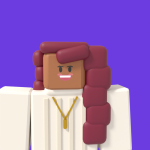
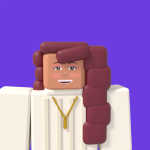
Sage: detailed likeness face (eyes, lashes, eyeshadow, brows, nose, lips), lighter skin tone
Adds face_detailed.py, a high-resolution drawn face with all 12 expressions,
and re-renders branding with the updated Sage.

Claude-Session: https://claude.ai/code/session_01J3XbAiCneoB6BvaKg4KW12

Changed region(s): [[0.2667, 0.3467, 0.56, 0.6133]]

diff --git a/pipeline/blender/face_detailed.py b/pipeline/blender/face_detailed.py
@@ -1,0 +1,235 @@
+"""High-detail drawn face for a main character (used when cast.json has
+"face_style": {"detailed": {...}}). Draws soft anti-aliased features at 512 px:
+almond eyes with iris + catchlight, eyeshadow, winged lashes, tapered brows,
+nose, blush and glossy lips, for all 12 expressions with closed / open mouth.
+
+Colours can be overridden in cast.json -> face_style.detailed:
+  iris, lashes, brows, eyeshadow, lips, blush, teeth, mouth
+"""
+import math
+
+import numpy as np
+
+N = 512
+ZOOM = 1.35  # features are designed on a 512 canvas, then enlarged to fill the head
+_YY, _XX = np.mgrid[0:N, 0:N].astype(np.float32)
+_XX = (_XX - N / 2) / ZOOM + N / 2
+_YY = (_YY - N / 2) / ZOOM + N / 2 + 10
+
+
+def hex3(h):
+    h = h.lstrip("#")
+    c = [int(h[i:i + 2], 16) / 255.0 for i in (0, 2, 4)]
+    return np.array([x / 12.92 if x <= 0.04045 else ((x + 0.055) / 1.055) ** 2.4 for x in c], np.float32)
+
+
+# ---------------------------------------------------------------- soft masks
+def _aa(d, w=1.4):
+    return np.clip(0.5 - d / w, 0.0, 1.0)
+
+
+def ellipse(cx, cy, rx, ry, soft=1.4):
+    d = (np.sqrt(((_XX - cx) / rx) ** 2 + ((_YY - cy) / ry) ** 2) - 1.0) * min(rx, ry)
+    return _aa(d, soft)
+
+
+def ring(cx, cy, rx, ry, w):
+    d = np.abs(np.sqrt(((_XX - cx) / rx) ** 2 + ((_YY - cy) / ry) ** 2) - 1.0) * min(rx, ry) - w / 2
+    return _aa(d)
+
+
+def capsule(x0, y0, x1, y1, w0, w1=None):
+    w1 = w0 if w1 is None else w1
+    dx, dy = x1 - x0, y1 - y0
+    t = np.clip(((_XX - x0) * dx + (_YY - y0) * dy) / (dx * dx + dy * dy + 1e-6), 0, 1)
+    d = np.sqrt((_XX - (x0 + t * dx)) ** 2 + (_YY - (y0 + t * dy)) ** 2) - (w0 + (w1 - w0) * t) / 2
+    return _aa(d)
+
+
+def polyline(pts, w0, w1):
+    m = np.zeros((N, N), np.float32)
+    n = len(pts) - 1
+    for i in range(n):
+        a = w0 + (w1 - w0) * i / n
+        b = w0 + (w1 - w0) * (i + 1) / n
+        m = np.maximum(m, capsule(*pts[i], *pts[i + 1], a, b))
+    return m
+
+
+def bezier(p0, p1, p2, steps=14):
+    return [((1 - t) ** 2 * p0[0] + 2 * (1 - t) * t * p1[0] + t * t * p2[0],
+             (1 - t) ** 2 * p0[1] + 2 * (1 - t) * t * p1[1] + t * t * p2[1]) for t in np.linspace(0, 1, steps)]
+
+
+def heart(cx, cy, s):
+    x = (_XX - cx) / s
+    y = -(_YY - cy) / s + 0.25
+    v = (x * x + y * y - 1) ** 3 - x * x * y ** 3
+    return np.clip(-v * 6 + 0.5, 0, 1)
+
+
+class Canvas:
+    def __init__(self, skin):
+        self.px = np.empty((N, N, 3), np.float32)
+        self.px[:] = skin
+
+    def paint(self, mask, color, alpha=1.0):
+        a = (mask * alpha)[..., None]
+        self.px = self.px * (1 - a) + np.asarray(color, np.float32) * a
+
+
+# --------------------------------------------------------------- expression
+#            eye_open brow_tilt brow_raise pupil  look_y  eye_mode   mouth
+EXPR = {
+    "neutral": (1.00, 0, 0, 1.00, 0, "normal", "soft"),
+    "happy":   (0.80, -4, 6, 1.00, 0, "smile", "teeth"),
+    "smug":    (0.55, 6, 0, 1.00, 2, "normal", "smirk"),
+    "angry":   (0.72, 22, -6, 0.90, 0, "normal", "frown"),
+    "sad":     (0.80, -20, 4, 1.00, 6, "normal", "frown"),
+    "shocked": (1.35, -4, 24, 0.62, 0, "normal", "o"),
+    "scared":  (1.25, -18, 16, 0.62, 2, "normal", "wobble"),
+    "sus":     (0.38, 10, -4, 1.00, 0, "normal", "flat"),
+    "cry":     (1.00, -22, 6, 1.00, 0, "closed", "frown"),
+    "dead":    (1.00, 0, 0, 1.00, 0, "x", "flat"),
+    "evil":    (0.62, 26, -4, 0.85, 0, "evil", "grin"),
+    "love":    (1.05, -6, 12, 1.00, 0, "heart", "teeth"),
+}
+
+EYE_L, EYE_R, EYE_Y = 176, 336, 226
+
+
+def draw_eye(cv, c, cx, side, open_, pupil, look_y, mode, skin):
+    cy = EYE_Y
+    rx, ry = 46, 25 * open_
+    # rose eyeshadow, soft
+    cv.paint(ellipse(cx + side * 6, cy - 16, 62, 26 + 14 * open_, soft=26), c["eyeshadow"], 0.55)
+    if mode == "x":
+        for s in (-1, 1):
+            cv.paint(capsule(cx - 26, cy - 26 * s, cx + 26, cy + 26 * s, 12), c["lashes"])
+        return
+    if mode == "closed":  # crying: closed lids curving down, lashes, tears
+        pts = bezier((cx - 44, cy + 4), (cx, cy - 22), (cx + 44, cy + 4))
+        cv.paint(polyline(pts, 9, 9), c["lashes"])
+        for k in (0.2, 0.5, 0.8):
+            px_, py_ = pts[int(k * (len(pts) - 1))]
+            cv.paint(capsule(px_, py_, px_ + side * 8, py_ - 12, 4, 2), c["lashes"])
+        tx = cx + side * 6
+        cv.paint(capsule(tx, cy + 6, tx + side * 4, 420, 18, 26), (0.35, 0.65, 1.0), 0.85)
+        return
+    white = ellipse(cx, cy, rx, ry)
+    cv.paint(white, (0.97, 0.96, 0.95))
+    # iris clipped to the eye white
+    ic = (cx, cy + look_y)
+    iris_col = c["iris"] if mode != "evil" else hex3("#c4102c")
+    if mode == "heart":
+        cv.paint(heart(ic[0], ic[1] - 2, 20) * white, hex3("#ff3d6e"))
+    else:
+        r = 21 * pupil
+        cv.paint(ellipse(ic[0], ic[1], r, r) * white, iris_col)
+        cv.paint(ring(ic[0], ic[1], r, r, 3) * white, iris_col * 0.45)
+        cv.paint(ellipse(ic[0], ic[1], r * 0.45, r * 0.45) * white, (0.02, 0.01, 0.01))
+        cv.paint(ellipse(ic[0] + 6, ic[1] - 7, 5.5, 5.5) * white, (1, 1, 1))
+        cv.paint(ellipse(ic[0] - 6, ic[1] + 7, 2.5, 2.5) * white, (1, 1, 1), 0.8)
+    if mode == "smile":  # cheeks push the lower lid up
+        cv.paint(ellipse(cx, cy + ry + 12, 56, 18, soft=3), skin)
+    # upper lid line + wing
+    top = bezier((cx - rx, cy + 2), (cx, cy - ry * 2.0), (cx + rx, cy + 2))
+    if side < 0:
+        top = top[::-1]
+    cv.paint(polyline(top, 4, 9), c["lashes"])  # thick toward the outer corner
+    ox, oy = cx + side * rx, cy + 2
+    cv.paint(capsule(ox, oy, ox + side * 18, oy - 14, 8, 2), c["lashes"])
+    # lashes fanning from the outer half of the lid
+    for k, ln in ((0.55, 12), (0.7, 15), (0.85, 17)):
+        px_, py_ = top[int(k * (len(top) - 1))]
+        cv.paint(capsule(px_, py_, px_ + side * ln * 0.7, py_ - ln, 4, 1.5), c["lashes"])
+    # soft lower lid
+    low = bezier((cx - rx * 0.8, cy + ry * 0.6), (cx, cy + ry * 1.25), (cx + rx * 0.9, cy + ry * 0.55))
+    cv.paint(polyline(low, 2, 2), c["lashes"], 0.35)
+
+
+def draw_brow(cv, c, cx, side, tilt, raise_):
+    by = EYE_Y - 62 - raise_
+    inner = (cx - side * 40, by + 6 + tilt * 0.8)
+    peak = (cx + side * 12, by - 12 + tilt * 0.1)
+    outer = (cx + side * 56, by + 8 - tilt * 0.3)
+    pts = bezier(inner, peak, outer, 16)
+    cv.paint(polyline(pts, 19, 7), c["brows"])
+
+
+def draw_nose(cv, skin):
+    shade = skin * 0.8
+    cv.paint(ellipse(256, 304, 30, 18, soft=14), shade, 0.6)
+    for x in (240, 272):
+        cv.paint(ellipse(x, 310, 8, 4.5, soft=3), skin * 0.55, 0.9)
+    cv.paint(ellipse(256, 282, 6, 12, soft=8), (1, 1, 1), 0.25)
+
+
+def draw_mouth(cv, c, kind, open_):
+    cx, cy = 256, 372
+    lips, dark, teeth = c["lips"], c["mouth"], c["teeth"]
+    if kind in ("teeth", "grin"):
+        w = 82 if kind == "teeth" else 94
+        h = (40 if open_ else 30) + (6 if kind == "grin" else 0)
+        top = cy - 8
+        inside = ellipse(cx, top, w, h + 6) * (_YY >= top)
+        cv.paint(ellipse(cx, top - 2, w + 10, h + 16) * (_YY >= top - 10), lips)     # lower lip
+        cv.paint(ellipse(cx, top + 2, w + 8, 12), lips)                               # upper lip
+        cv.paint(inside, dark)
+        cv.paint(inside * (_YY <= top + h * 0.48), teeth)                              # top teeth
+        if kind == "grin" or open_:
+            cv.paint(inside * (_YY >= top + h * 0.85), teeth * 0.95)                  # bottom teeth
+        cv.paint(ellipse(cx + 18, top + h + 9, 22, 4, soft=4), (1, 1, 1), 0.55)       # gloss
+        return
+    if kind == "o":
+        r = 30 if open_ else 24
+        cv.paint(ellipse(cx, cy + 4, r + 10, r + 16), lips)
+        cv.paint(ellipse(cx, cy + 4, r, r + 6), dark)
+        cv.paint(ellipse(cx + 10, cy + r + 14, 10, 3, soft=3), (1, 1, 1), 0.5)
+        return
+    if open_:  # generic talking mouth for the other shapes
+        cv.paint(ellipse(cx, cy + 2, 46, 30), lips)
+        cv.paint(ellipse(cx, cy + 2, 36, 20), dark)
+        cv.paint(ellipse(cx, cy - 8, 32, 8) * ellipse(cx, cy + 2, 36, 20), teeth)
+        return
+    # closed shapes: two full lips with a parting line
+    if kind == "soft":
+        line = bezier((cx - 50, cy - 4), (cx, cy + 12), (cx + 50, cy - 4))
+    elif kind == "frown":
+        line = bezier((cx - 44, cy + 10), (cx, cy - 8), (cx + 44, cy + 10))
+    elif kind == "smirk":
+        line = bezier((cx - 40, cy + 6), (cx + 10, cy + 8), (cx + 50, cy - 12))
+    elif kind == "wobble":
+        line = [(cx - 48 + i * 12, cy + (6 if i % 2 else -4)) for i in range(9)]
+    else:  # flat
+        line = [(cx - 38, cy), (cx + 38, cy)]
+    lip = np.zeros((N, N), np.float32)
+    for (x, y) in line:
+        lip = np.maximum(lip, ellipse(x, y, 16, 15))
+    cv.paint(lip, lips)
+    cv.paint(polyline(line, 5, 5), lips * 0.55)
+    mx = line[len(line) // 2][0]
+    my = line[len(line) // 2][1]
+    cv.paint(ellipse(mx + 14, my + 11, 14, 3, soft=3), (1, 1, 1), 0.5)
+
+
+def draw_face_detailed(expr, mouth_open, skin_lin, opts):
+    c = {k: hex3(v) for k, v in {
+        "iris": "#4a2716", "lashes": "#170c0a", "brows": "#4a2a1c", "eyeshadow": "#e0727f",
+        "lips": "#e3a1a6", "blush": "#ff8c8c", "teeth": "#fbfaf6", "mouth": "#5b1d22"}.items()}
+    c.update({k: hex3(v) for k, v in opts.items() if isinstance(v, str) and v.startswith("#")})
+    skin = np.asarray(skin_lin[:3], np.float32)
+    open_, tilt, raise_, pupil, look_y, mode, mouth = EXPR[expr]
+    cv = Canvas(skin)
+    for cx in (EYE_L - 26, EYE_R + 26):  # blush
+        cv.paint(ellipse(cx, 304, 50, 24, soft=40), c["blush"], 0.5)
+    draw_nose(cv, skin)
+    for cx, side in ((EYE_L, -1), (EYE_R, 1)):
+        draw_eye(cv, c, cx, side, open_, pupil, look_y, mode, skin)
+        if expr == "smug" and side > 0:
+            draw_brow(cv, c, cx, side, -6, 14)
+        else:
+            draw_brow(cv, c, cx, side, tilt, raise_)
+    talk = mouth_open or mouth == "o" and expr == "shocked"
+    draw_mouth(cv, c, mouth, bool(mouth_open))
+    return np.concatenate([cv.px, np.ones((N, N, 1), np.float32)], -1)

diff --git a/pipeline/blender/rig.py b/pipeline/blender/rig.py
@@ -223,9 +223,23 @@ def stylize_face(expr, mouth_open, layers, style):
 
 
 def build_face_atlas(name, skin_hex, faces_dir, glasses=False, style=None):
+    skin = np.array(hex_rgba(skin_hex), np.float32)
+    if style and style.get("detailed") is not None:
+        from face_detailed import N as DN, draw_face_detailed
+        px = np.zeros((ATLAS_ROWS * DN, ATLAS_COLS * DN, 4), np.float32)
+        for i, expr in enumerate(FACES):
+            for open_ in (0, 1):
+                idx = i * 2 + open_
+                col, row = idx % ATLAS_COLS, idx // ATLAS_COLS
+                cell = draw_face_detailed(expr, bool(open_), skin, style["detailed"])
+                px[row * DN:(row + 1) * DN, col * DN:(col + 1) * DN] = cell[::-1]
+        img = bpy.data.images.new(f"{name}_faces", px.shape[1], px.shape[0], alpha=True, float_buffer=True)
+        img.colorspace_settings.name = "Non-Color"
+        img.pixels.foreach_set(px.ravel())
+        img.pack()
+        return img
     W, H = ATLAS_COLS * CELL, ATLAS_ROWS * CELL
     px = np.zeros((H, W, 4), np.float32)
-    skin = np.array(hex_rgba(skin_hex), np.float32)
     px[:] = skin
     colors = {"ink": (0.02, 0.02, 0.02, 1), "white": (1, 1, 1, 1), "pink": (0.55, 0.08, 0.12, 1),
               "blue": (0.25, 0.55, 1.0, 1), "red": (0.85, 0.05, 0.08, 1)}
